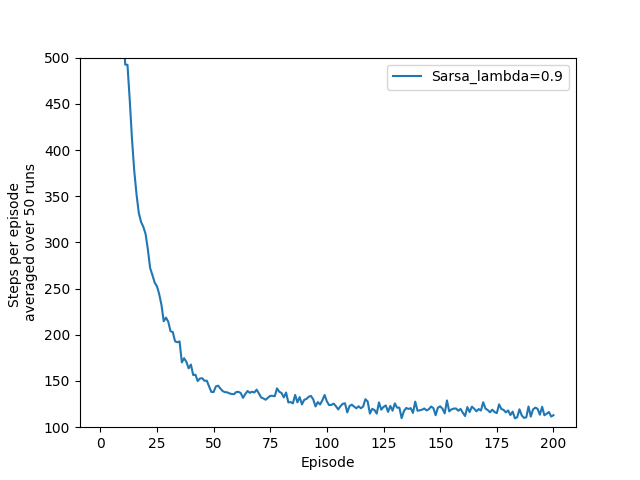
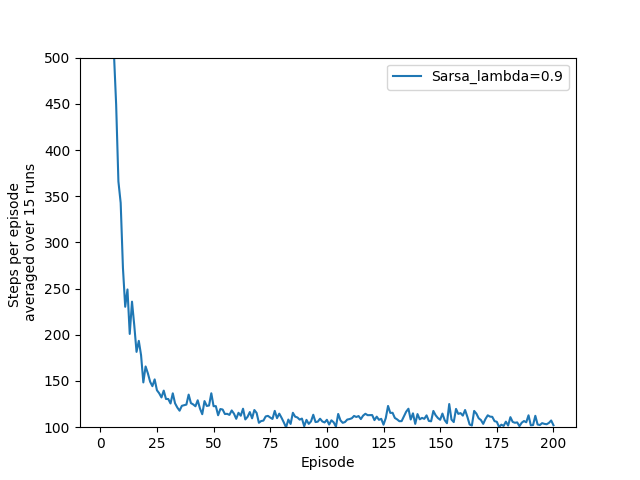
With accumulating traces

diff --git a/assignment7/bonus/sarsa_lambda_agent_modified.py b/assignment7/bonus/sarsa_lambda_agent_modified.py
@@ -1,0 +1,172 @@
+#!/usr/bin/env python
+
+"""
+  Author: Adam White, Matthew Schlegel, Mohammad M. Ajallooeian, Sina Ghiassian
+  Purpose: Skeleton code for Monte Carlo Exploring Starts Control Agent
+           for use on A3 of Reinforcement learning course University of Alberta Fall 2017
+ 
+"""
+
+from utils import rand_in_range, rand_un
+import numpy as np
+import pickle
+
+import matplotlib.pyplot as plt
+from tiles3 import *
+
+last_state = None
+last_action = None
+last_tile = None
+weights = None 
+values = None
+Z = None
+
+tilings = 8 
+alpha = 0.1/tilings
+gamma = 1.0
+lambdah = 0.9
+epsilon = 0.0
+shape = [8,8] # where [0] is position, [1]  is velocity
+iht = IHT(4096)
+
+
+def agent_init():
+    """
+    Hint: Initialize the variables that need to be reset before each run begins
+    Returns: nothing
+    """
+    #initialize the policy array in a smart way
+    global weights, values
+
+    values = np.zeros([shape[0], shape[1], 3]) # size of tiling shape and depth of # actions
+    weights = np.random.uniform(-0.001, 0.0, 4096) # eClass said use 4096, same as IHT size
+
+
+def agent_start(state):
+    """
+    Hint: Initialize the variavbles that you want to reset before starting a new episode
+    Arguments: state: numpy array
+    Returns: action: integer
+    """
+    # pick the first action, don't forget about exploring starts 
+    global last_state, last_action, last_tile, Z
+
+    # determine which tile index for position and velocity
+    position = shape[0] * (state[0] + 1.2) / (1.2 + 0.5) # add lower bound 1.2 to get positives only, divide by range
+    velocity = shape[1] * (state[1] + 0.07) / (0.07 + 0.07)
+    tile = [position, velocity]
+
+    action = get_epsilon_action(tile)
+
+    last_state = state
+    last_action = action
+    last_tile = tile
+
+    Z = np.zeros(len(weights)) # eClass - same length as weights
+
+    return action
+
+
+def agent_step(reward, state): # returns NumPy array, reward: floating point, this_observation: NumPy array
+    """
+    Arguments: reward: floting point, state: integer
+    Returns: action: integer
+    """
+    # select an action, based on Q
+    global last_state, last_action, last_tile, weights, Z, values
+
+    TD_error = reward
+    
+    for i in F(last_tile, last_action):
+        TD_error -= weights[i]
+        Z[i] = Z[i] + 1.0
+
+    position = shape[0] * (state[0] + 1.2) / (1.2 + 0.5) # add lower bound 1.2 to get positives only, divide by range
+    velocity = shape[1] * (state[1] + 0.07) / (0.07 + 0.07)
+    tile = [position, velocity]
+
+    action = get_epsilon_action(tile)
+    
+    activated = np.zeros(len(weights))
+
+    for i in F(tile, action):
+        activated[i] = 1.0
+        TD_error += gamma * weights[i]
+
+    weights += alpha * TD_error * Z
+    Z = gamma * lambdah * Z
+
+    last_state = state
+    last_action = action
+    last_tile = tile
+
+    return action
+
+def agent_end(reward):
+    """
+    Arguments: reward: floating point
+    Returns: Nothing
+    """
+    # do learning and update pi
+    global weights, Z
+
+    # no need to get new tile from pos and vel
+
+    TD_error = reward
+
+    for i in F(last_tile, last_action):
+        TD_error -= weights[i]
+        Z[i] = Z[i] + 1.0
+
+    weights += alpha * TD_error * Z
+
+    return
+
+
+def agent_cleanup():
+    """
+    This function is not used
+    """
+    # clean up
+
+    return
+
+
+def agent_message(in_message): # returns string, in_message: string
+    """
+    Arguments: in_message: string
+    returns: The value function as a string.
+    This function is complete. You do not need to add code here.
+    """
+    # should not need to modify this function. Modify at your own risk
+    if (in_message == 'RMSE'):
+        estimated_values = np.zeros(1001)
+        for state in range(1001):
+            estimated_values[state] = get_value(state, weights)
+        return estimated_values
+    else:
+        return "I don't know what to return!!"
+
+
+def get_epsilon_action(state):
+    if np.random.uniform() < epsilon: # explore
+        action = np.random.randint(3)
+        print("Yeaaaaaaaaaaaaaaaaaaa this probably shouldn't have happened when eps=0, plz fix")
+    else: # exploit
+        options = []
+        for action in range(3):
+            tiles123 = F(state, action)
+            options.append(np.sum(weights[tiles123]))
+        options = np.array(options)
+        action = argmax(options)
+    return action
+
+
+def argmax(a):
+    # Robert Kern
+    # https://mail.scipy.org/pipermail/numpy-discussion/2015-March/072459.html
+    return np.random.choice(np.where(a == a.max())[0])
+
+
+def F(state, action):
+    return tiles(iht, tilings, state, [action])

diff --git a/assignment7/bonus/mountaincar_exp.py b/assignment7/bonus/mountaincar_exp.py
@@ -16,12 +16,13 @@ import numpy as np
 
 if __name__ == "__main__":
     num_episodes = 200
-    num_runs = 5
+    num_runs = 15
 
     steps = np.zeros([num_runs,num_episodes])
 
     runs_errors = np.zeros(num_runs)
 
+    np.random.seed(366609)
     for r in range(num_runs):
         print "run number : ", r
         RL_init()
@@ -33,6 +34,59 @@ if __name__ == "__main__":
             run_total += RL_return()
         runs_errors[r] = run_total
     
-    print(runs_errors)
-    print(np.mean(runs_errors))
-    np.save('steps',steps)
+    original_mean = np.mean(runs_errors)
+    original_std = np.std(runs_errors)
+    original_error = original_std / (num_runs**0.5)
+
+    # original_mean = -39902.8
+    # original_std = 770.338
+    # original_error = 344.5
+
+    
+    print("Unmodified")
+    print("Mean: " + str(original_mean))
+    print("Std: " + str(original_std))
+    print("Error: " + str(original_error))
+
+    RLGlue("mountaincar", "sarsa_lambda_agent_modified")
+
+    steps = np.zeros([num_runs,num_episodes])
+
+    runs_errors = np.zeros(num_runs)
+
+    np.random.seed(366609)
+    for r in range(num_runs):
+        print "run number : ", r
+        RL_init()
+        run_total = 0.0
+        for e in range(num_episodes):
+            # print '\tepisode {}'.format(e+1)
+            RL_episode(0)
+            steps[r,e] = RL_num_steps()
+            run_total += RL_return()
+        runs_errors[r] = run_total
+    
+    mod_mean = np.mean(runs_errors)
+    mod_std = np.std(runs_errors)
+    mod_error = mod_std / (num_runs**0.5)
+    
+    print("Modified")
+    print("Mean: " + str(mod_mean))
+    print("Std: " + str(mod_std))
+    print("Error: " + str(mod_error))
+
+
+    print("Change?")
+
+    if original_error > mod_error:
+        larger_error = original_error
+    else:
+        larger_error = mod_error
+
+
+    imp = (mod_mean - original_mean) / larger_error
+
+    print(imp)
+
+    np.save('steps', steps)
+
